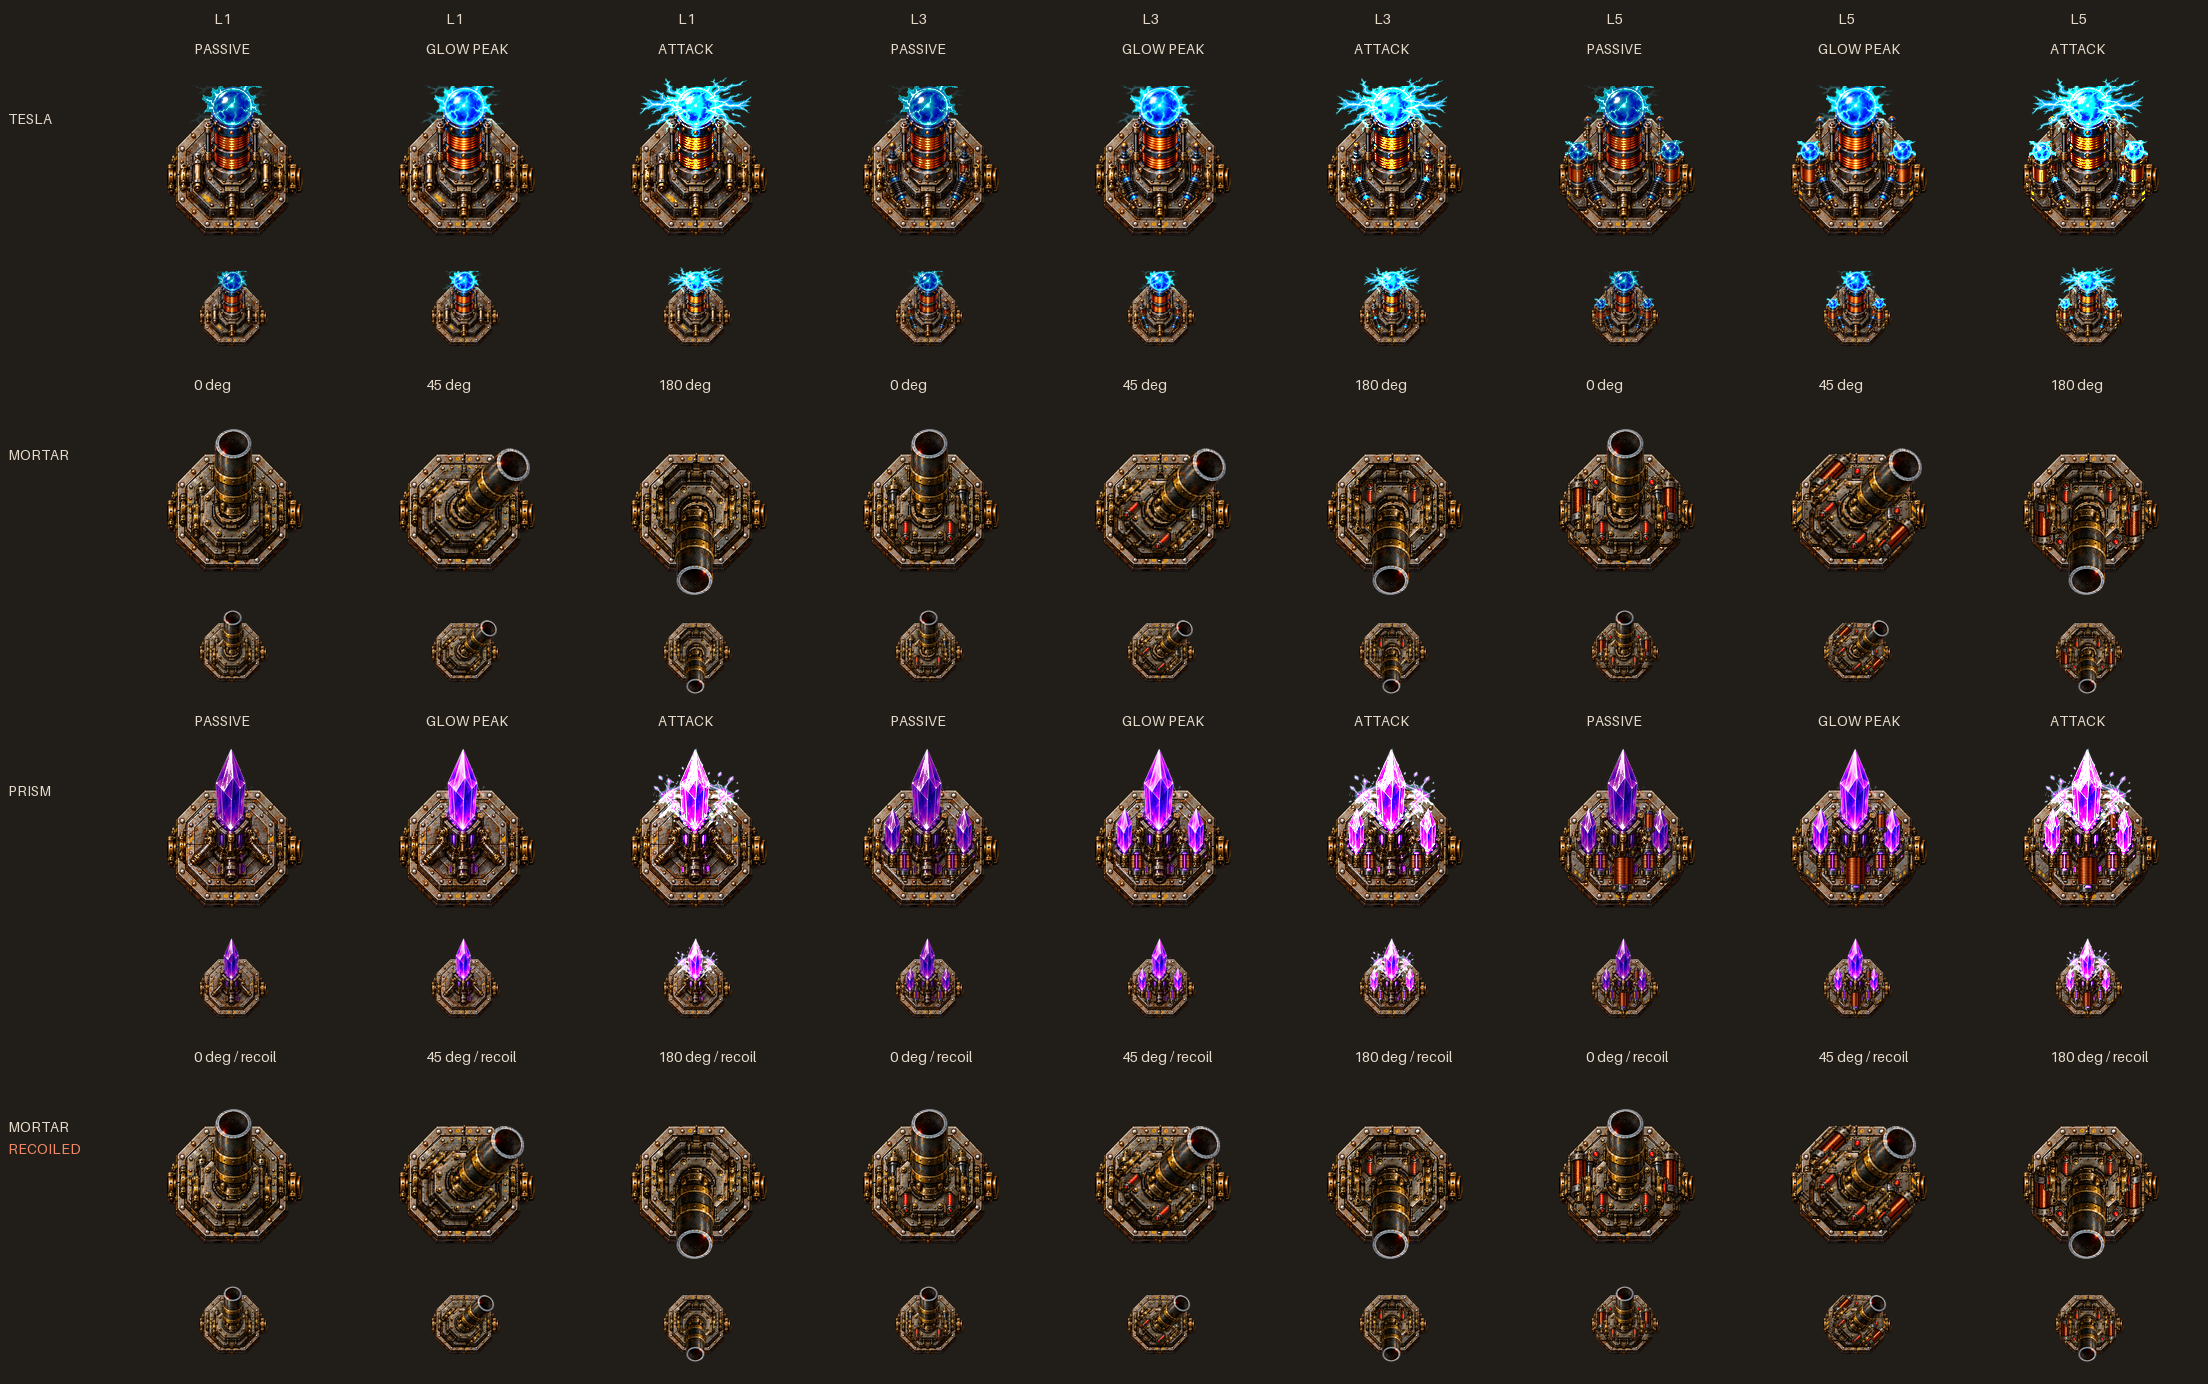
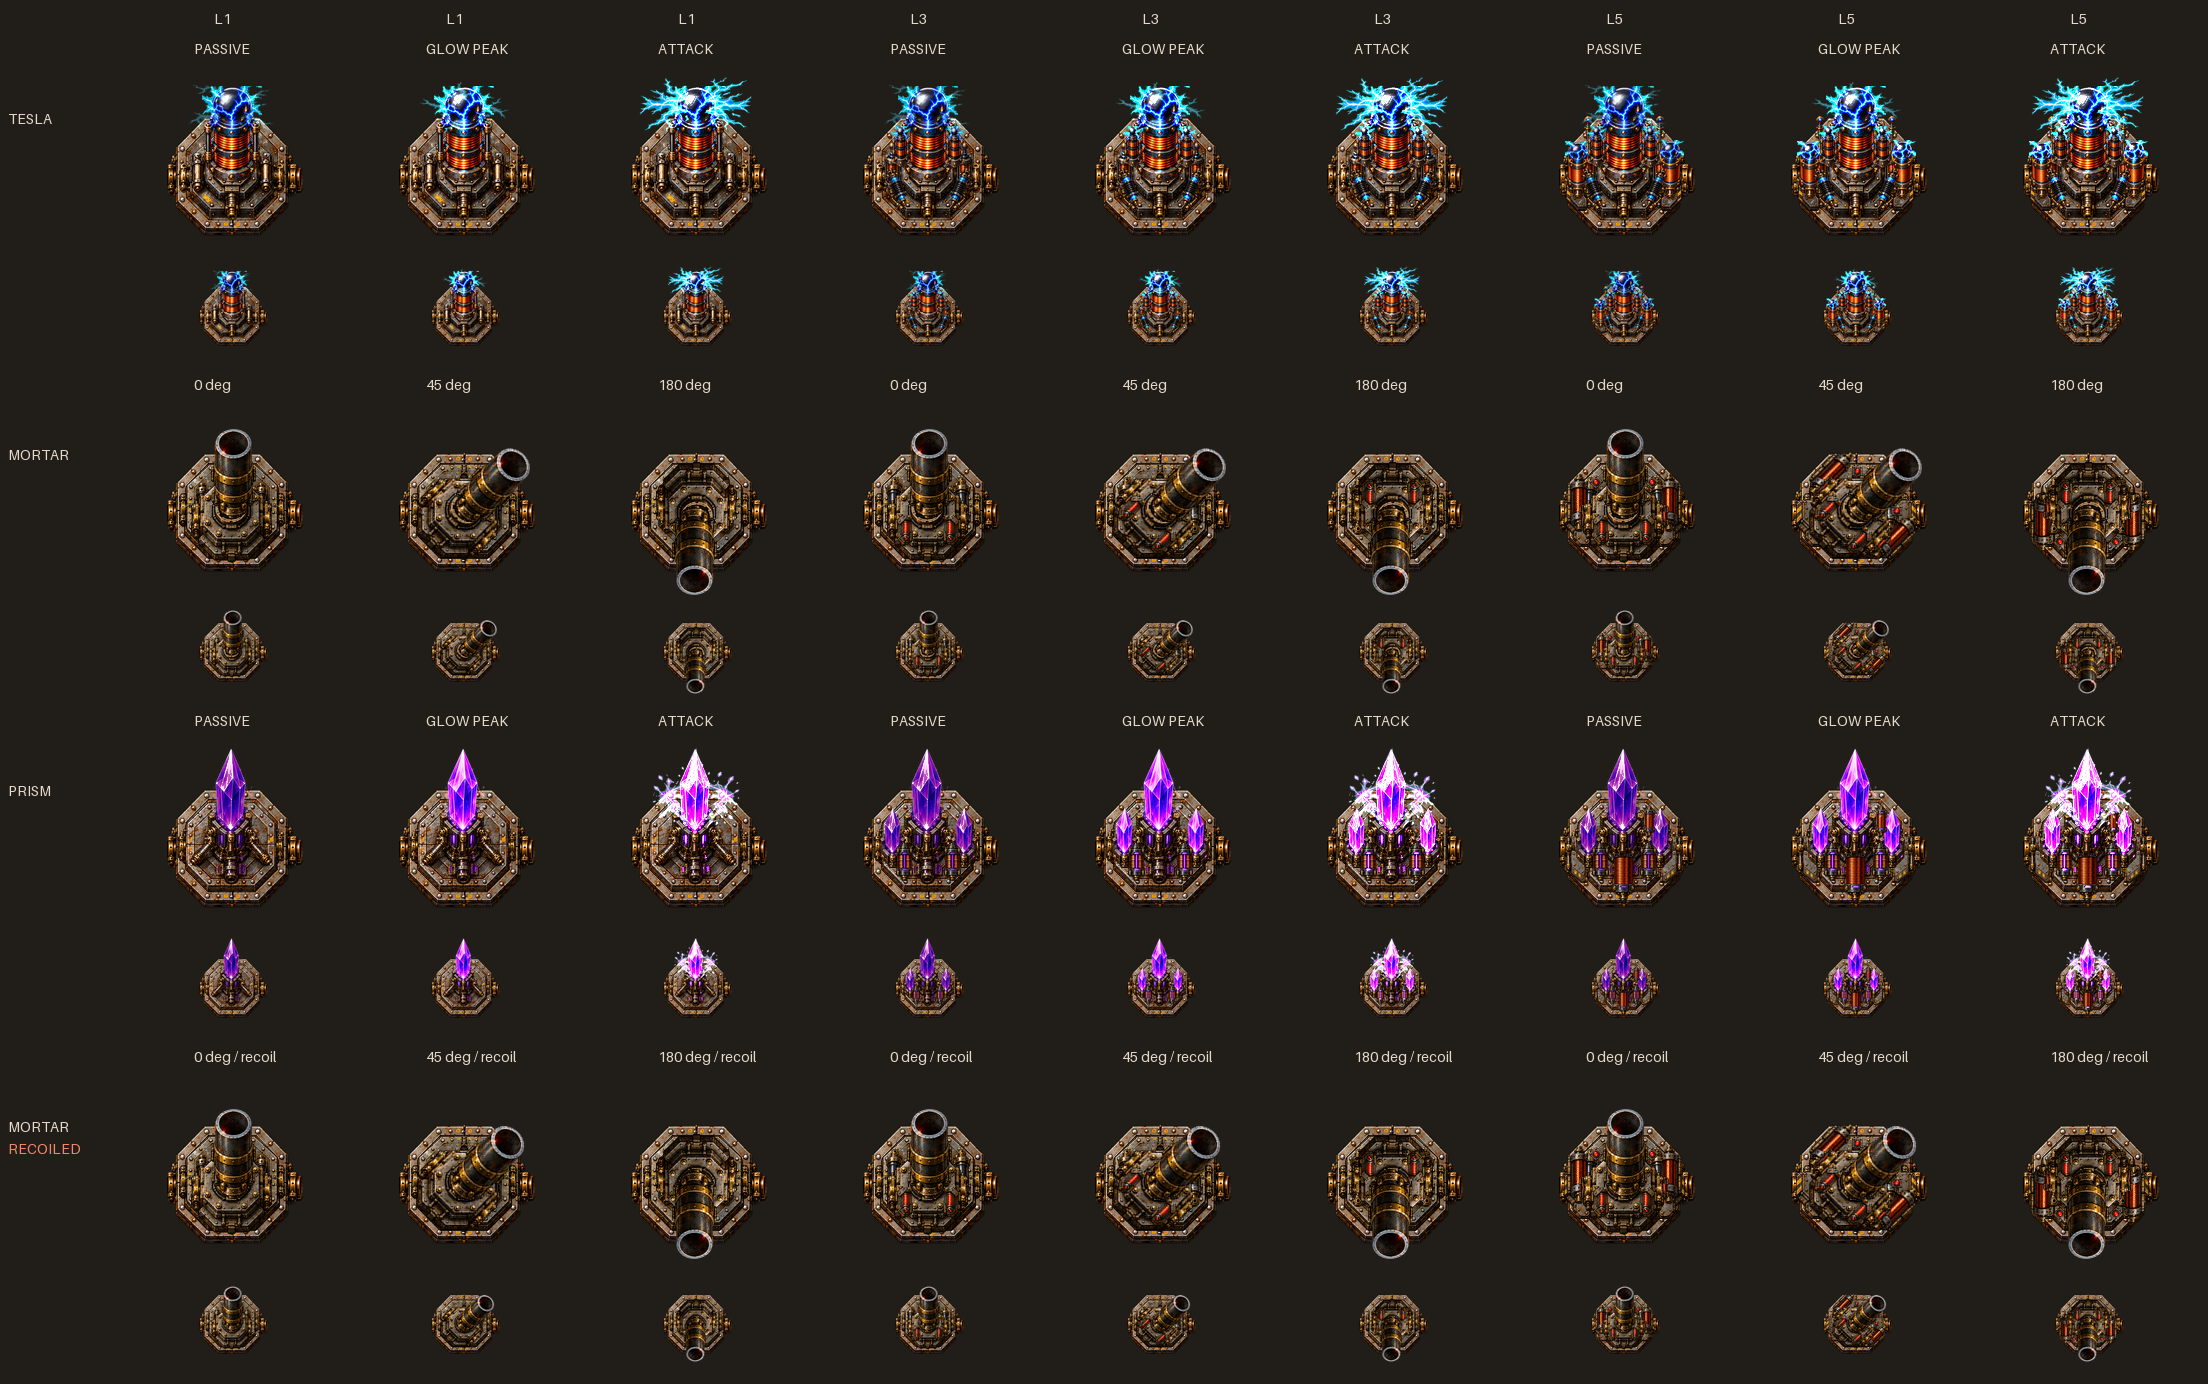
Increase Tesla discharge contrast and cumulative auxiliary coils

diff --git a/public/td/towers/NOTES.md b/public/td/towers/NOTES.md
@@ -18,14 +18,14 @@ Effect strips are already emissive RGBA, not body parts needing duplicate glows.
 
 Only Mortar has aim.enabled=true: rotate head about [112,112], inherit transforms.
 Its child barrel recoils 8px along local +y; the muzzle anchor follows the barrel.
-Tesla/Prism remain fixed. L5 Tesla adds blue-orb coils; Mortar adds hot indicators
-and vents (glowScale=1.8). Prism L1 omits the forward winding coil; L5 power coils
+Tesla/Prism remain fixed. Tesla L3 adds auxiliary coils, L5 adds arcing metal orbs;
+Mortar adds hot indicators/vents (glowScale=1.8). Prism L1 omits a winding; L5 coils
 sit large center-front/small rear-right. Aiming and accepted centering are preserved.
 Their animations.passive loops for 1600ms; animations.attack is a 640ms one-shot.
 Each state defines glowGain/glowStrength/effectOpacity keys in milliseconds,
 four VFX frames, frameDurationMs, frameSize, offset, parent and additive blending.
-Passively breathe the emissive pixels and add sparse sparks; attack charges,
-brightens and forks through the generated electrical/crystal effect frames.
+Tesla crackles with high-contrast blue-white arcs; copper is non-emissive. Prism
+breathes; attacks brighten and fork through generated electrical/crystal frames.
 Use premultiplied additive RGB for effects; do not recolor non-emissive steel.
 Cable and range_center anchors are fixed on pad; all coordinates are rest-frame.
 
